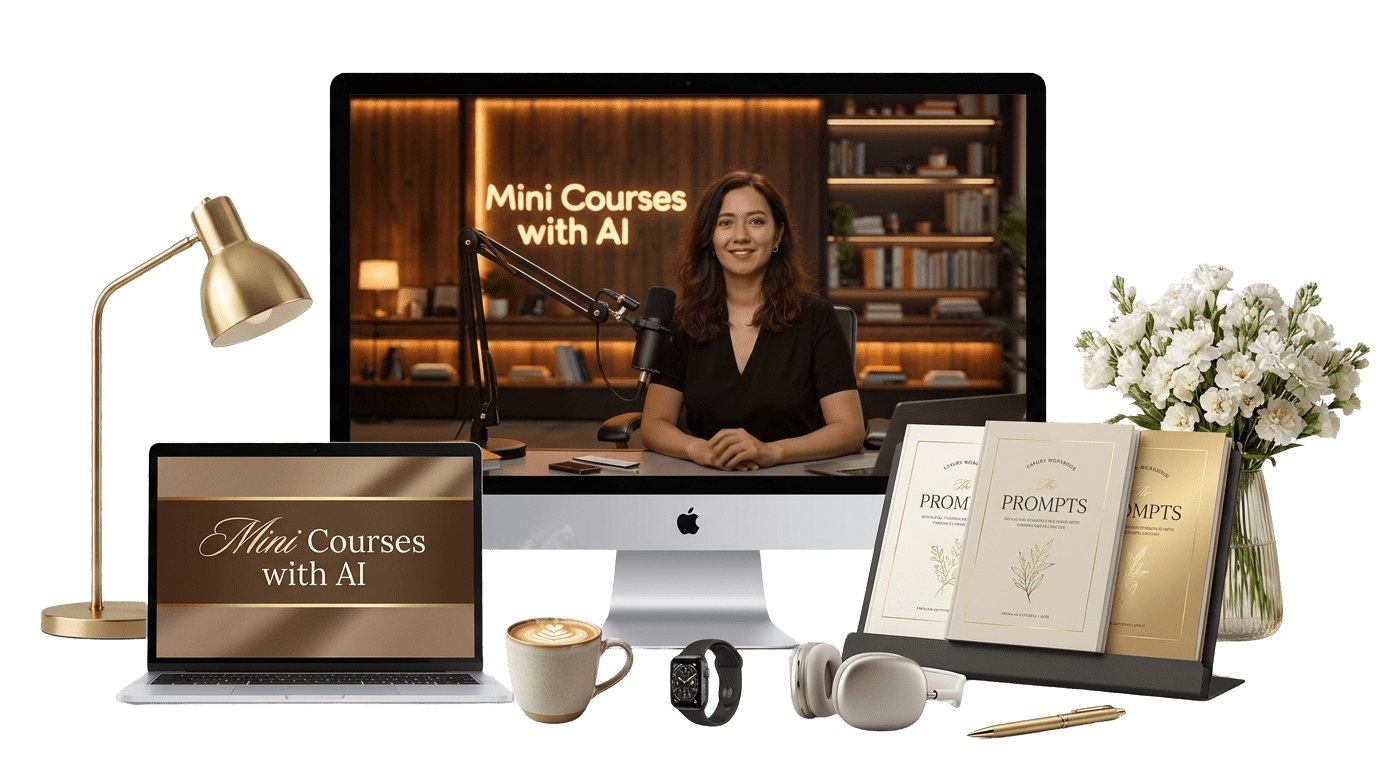
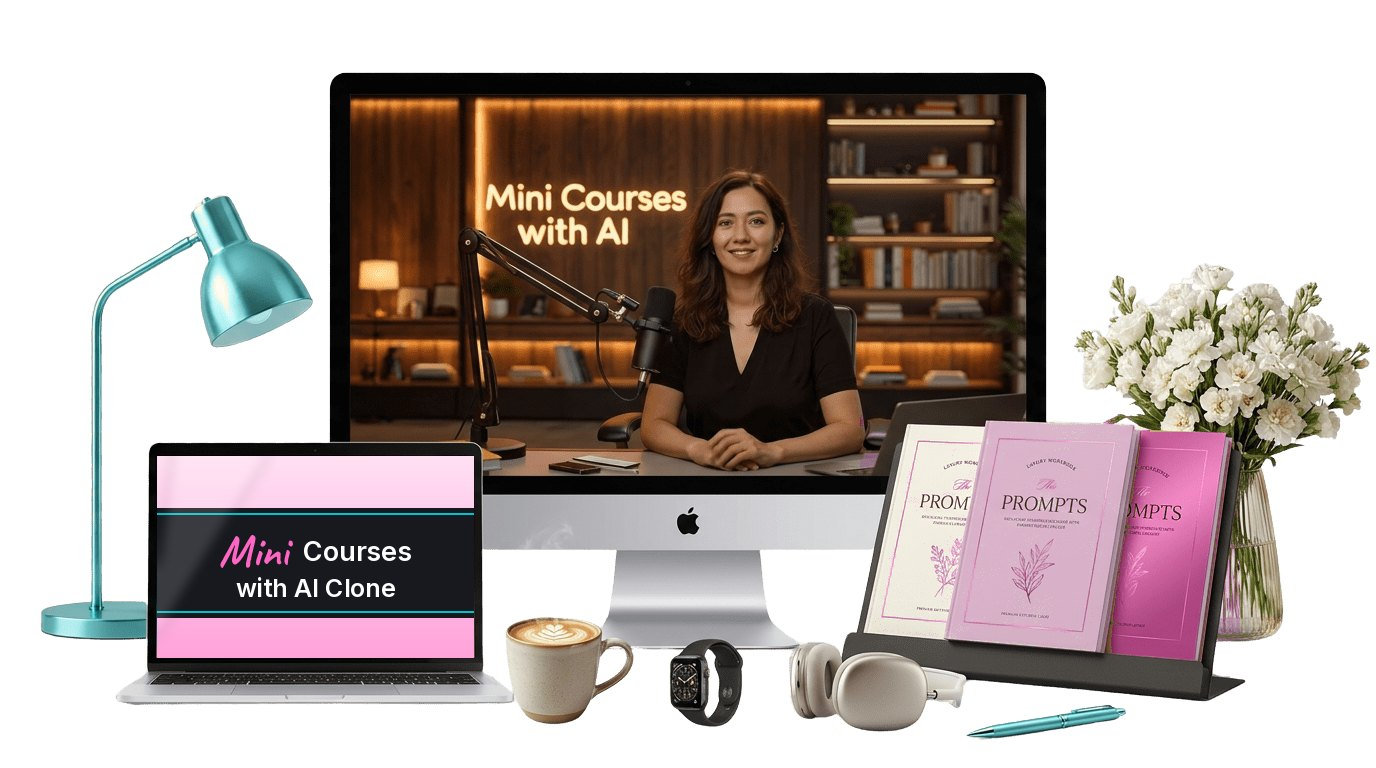
Funnel review round 2: quiet footers, one line under buttons, pink bonus marks, brand-colour mockup, For You section, new bio photo, pink services on welcome page
Claude-Session: https://claude.ai/code/session_01PxeRzWeaheMs1T8rnp6Qtq

Changed region(s): [[0.0312, 0.25, 0.3438, 0.875], [0.6562, 0.5312, 0.9062, 0.875], [0.6875, 0.9062, 0.8125, 0.9688]]

diff --git a/interactive-mini-app-offer.html b/interactive-mini-app-offer.html
@@ -35,7 +35,7 @@ strong{font-weight:600;color:var(--charcoal)}
 .btn-pink{background:linear-gradient(180deg,var(--pink) 0%,var(--pink-deep) 100%);color:var(--white);text-shadow:0 1px 2px rgba(150,20,95,.45);box-shadow:0 10px 24px -10px rgba(233,74,172,.8)}
 .btn-turq{background:linear-gradient(180deg,var(--turq-btn-light) 0%,var(--turq-btn) 55%,var(--turq-btn-dark) 100%);color:var(--white);text-shadow:0 1px 1px rgba(0,60,64,.35);box-shadow:0 10px 24px -10px rgba(0,118,124,.7)}
 .micro{font-size:14px;color:var(--muted);margin-top:12px}
-.nothanks{display:inline-block;margin-top:18px;font-size:15px;color:var(--muted);text-decoration:underline;text-underline-offset:3px}
+.nothanks{display:inline-block;margin-top:18px;font-size:15px;font-weight:700;color:var(--muted);text-decoration:underline;text-underline-offset:3px}
 .nothanks:hover{color:var(--charcoal)}
 .ph{background:#FFF3C4;padding:0 4px;border-radius:3px}
 
@@ -169,7 +169,6 @@ strong{font-weight:600;color:var(--charcoal)}
 .bonus-title{margin:56px 0 24px;font-size:26px}
 .bonuses{display:grid;grid-template-columns:repeat(3,1fr);gap:18px;text-align:left}
 .bonus{background:var(--white);border:1px solid var(--border);border-radius:18px;padding:22px;border-top:6px solid var(--pink)}
-.bonus:nth-child(2){border-top-color:var(--turq)}
 .bonus .tag{font-size:12px;font-weight:700;letter-spacing:.14em;color:var(--pink-deep);text-transform:uppercase}
 .bonus h3{font-size:18px;margin:6px 0 8px}
 .bonus p{font-size:15px;color:var(--muted)}
@@ -216,6 +215,7 @@ details .a{padding:0 22px 20px;color:var(--muted)}
 .getlist li{list-style:none;padding:10px 0 10px 36px;position:relative;border-bottom:1px solid var(--border);font-weight:500;color:var(--charcoal)}
 .getlist li:last-child{border-bottom:0}
 .getlist li:before{content:"✓";position:absolute;left:0;top:10px;width:24px;height:24px;border-radius:50%;background:var(--turq-btn);color:var(--white);font-size:13px;display:flex;align-items:center;justify-content:center;font-weight:700}
+.getlist li.b:before{content:"★";background:var(--pink-deep)}
 .signoff{font-family:'Caveat',cursive;font-size:32px;color:var(--pink-deep);margin-top:28px}
 
 /* RESPONSIVE */
@@ -350,7 +350,7 @@ details .a{padding:0 22px 20px;color:var(--muted)}
       <p class="ba-hint">Drag the slider: from PDFs nobody opens to a mini app people use</p>
     
       </div>
-      <p class="lead">Quizzes, calculators, planners, generators… The <strong>Interactive Mini Apps course</strong> shows you how to build your own mini web app (a link people open in their browser, not an iOS or Android app) in 4 short lessons, with no code and no tech skills, ready to grow your list or sell for <strong>$9–$47</strong>.</p>
+      <p class="lead">Quizzes, calculators, planners, generators… The <strong>Interactive Mini Apps course</strong> shows you how to build your own mini web app <em>(a link people open in their browser, not an iOS or Android app)</em> in 4 short lessons, with no code and no tech skills, ready to grow your list or sell for <strong>$9–$47</strong>.</p>
       <ul class="ticks">
         <li>No coding. Not even a little bit.</li>
         <li>No developer, no $500 custom build.</li>
@@ -386,7 +386,7 @@ details .a{padding:0 22px 20px;color:var(--muted)}
   <div class="wrap">
     <span class="eyebrow">Introducing…</span>
     <div class="name">Interactive <em>Mini Apps</em></div>
-    <p class="sub">Turn your idea into a working mini web app, with no code.<br><span style="font-size:16px">(A mini web app opens from a link in any browser. It's not an iOS or Android app.)</span></p>
+    <p class="sub">Turn your idea into a working mini web app, with no code.<br><em style="font-size:16px">(A mini web app opens from a link in any browser. It's not an iOS or Android app.)</em></p>
     <div class="intro-slider"><div class="ba" style="--pos:50%">
         <div class="ba-stage">
           <!-- BEFORE: static PDF worksheets -->
@@ -518,8 +518,7 @@ details .a{padding:0 22px 20px;color:var(--muted)}
         </div>
 
         <button class="btn btn-pink" type="submit">Complete My Order · <span data-total>$19</span></button>
-        <p class="consent">Stripe saves your card securely so you can add anything on the next page with one click. Nothing else is charged unless you choose it.</p>
-        <p class="secure">🔒 Secure checkout powered by Stripe</p>
+        <p class="secure">🔒 Secure Stripe checkout. Your card is saved only so you can add extras in one click.</p>
       </form>
       <a class="nothanks" href="#" data-next="canva-ai-prompt-library-offer.html">No thanks, I'll skip this offer</a>
     </div>
@@ -548,9 +547,9 @@ details .a{padding:0 22px 20px;color:var(--muted)}
       <li>Lesson 2: Which Builder Should You Use?</li>
       <li>Lesson 3: Step by Step Screen Recording Walkthrough</li>
       <li>Lesson 4: Share and Use Your Mini App</li>
-      <li>Bonus #1: Mini App Idea Finder App</li>
-      <li>Bonus #2: Idea Finder App Template Kit</li>
-      <li>Bonus #3: Promote Your Mini App Guide</li>
+      <li class="b">Bonus #1: Mini App Idea Finder App</li>
+      <li class="b">Bonus #2: Idea Finder App Template Kit</li>
+      <li class="b">Bonus #3: Promote Your Mini App Guide</li>
     </ul>
     <p class="price-line"><s>$49</s> <b>$19</b></p>
     <a class="btn btn-turq" href="#checkout">Build My Mini App →</a>
@@ -581,8 +580,8 @@ details .a{padding:0 22px 20px;color:var(--muted)}
 })();
 </script>
 
-  <footer style="background:#17191F;color:rgba(255,255,255,.7);text-align:center;padding:28px 20px;font:14px/1.6 Inter,system-ui,sans-serif">
-    <p style="margin:0">&copy; 2026 Creator Hustle AI &middot; <a href="privacy-policy.html" style="color:#fff">Privacy Policy</a> &middot; <a href="terms-of-use.html" style="color:#fff">Terms of Use</a> &middot; <a href="disclaimer.html" style="color:#fff">Disclaimer</a> &middot; <a href="contact.html" style="color:#fff">Contact</a> &middot; <a href="support.html" style="display:inline-block;margin-left:4px;padding:4px 12px;border-radius:999px;background:linear-gradient(180deg,#FF66C4,#E94AAC);color:#fff;font-weight:600;text-decoration:none">Customer Support</a></p>
+  <footer style="background:#fff;border-top:1px solid #EEF1F5;text-align:center;padding:18px 20px;font:12px/1.6 Inter,system-ui,sans-serif;color:#9AA4B2">
+    <p style="margin:0">&copy; 2026 Creator Hustle AI &middot; <a href="privacy-policy.html" style="color:#9AA4B2">Privacy</a> &middot; <a href="terms-of-use.html" style="color:#9AA4B2">Terms</a> &middot; <a href="disclaimer.html" style="color:#9AA4B2">Disclaimer</a> &middot; <a href="contact.html" style="color:#9AA4B2">Contact</a> &middot; <a href="support.html" style="color:#9AA4B2">Support</a></p>
   </footer>
 <script src="js/funnel.js"></script>
 </body>

diff --git a/mini-courses-with-ai-offer.html b/mini-courses-with-ai-offer.html
@@ -58,6 +58,22 @@
   <div class="wrap"><p>The good news? Your AI clone can do the presenting for you. Imagine having your mini course ready in a single day.</p></div>
 </section>
 
+<!-- FOR YOU IF -->
+<section class="foryou">
+  <div class="wrap foryou-grid">
+    <img src="assets/ai-clone-recording.jpg" alt="Liya recording a short video while her AI clone is generated" width="764" height="953" loading="lazy">
+    <div class="foryou-box">
+      <h2>This is for you if:</h2>
+      <ul>
+        <li><strong>You've been putting off creating a course</strong> because the process feels overwhelming, time-consuming or too technical.</li>
+        <li><strong>You'd love an AI clone presenter that delivers your lessons</strong> without needing to be on camera all the time.</li>
+        <li>You want <strong>a simple, step-by-step system</strong> that takes you from idea to published course.</li>
+        <li>You're a coach, course creator, digital product seller, consultant, freelancer or side hustler <strong>looking to create a new digital asset.</strong></li>
+      </ul>
+    </div>
+  </div>
+</section>
+
 <!-- INSIDE -->
 <section class="inside center">
   <div class="wrap">
@@ -89,7 +105,7 @@
       <p>After discovering what AI can do for course creation, I built a simple workflow that turns ideas into finished mini courses faster than ever.</p>
       <p>My goal is simple: <strong>help you stop overthinking your course and finally get it published.</strong></p>
     </div>
-    <img class="bio-square" src="assets/liya-bio-pink.jpg" alt="Liya Bergen smiling" width="560" height="560" loading="lazy">
+    <img class="bio-square" src="assets/liya-bio-turquoise.jpg" alt="Liya Bergen smiling in a turquoise shirt" width="720" height="720" loading="lazy">
   </div>
 </section>
 
@@ -102,8 +118,8 @@
       <ul class="getlist" style="margin:18px auto 20px">
         <li>5-step system to build, record and publish your mini course <em>$97</em></li>
         <li>Prompt pack for ideas, curriculum and marketing <em>$19</em></li>
-        <li>Bonus 1: Instagram Story Funnel <em>$29</em></li>
-        <li>Bonus 2: Podcast Studio Photoshoot Prompts + video demo <em>$49</em></li>
+        <li class="b">Bonus 1: Instagram Story Funnel <em>$29</em></li>
+        <li class="b">Bonus 2: Podcast Studio Photoshoot Prompts + video demo <em>$49</em></li>
         <li class="total">Total value <em>$194</em></li>
       </ul>
       <div class="was">$39</div>
@@ -111,7 +127,6 @@
       <p class="note">One-time payment. Lifetime access. Less than the cost of a dinner out.</p>
       <button class="btn btn-pink btn-block" type="button" id="downsell-yes" data-oneclick="downsell" data-next="welcome.html">Yes! Add Mini Courses with AI Clone →</button>
       <p class="card-on-file" data-if-card>💳 Charged to the card you just used. No need to enter it again.</p>
-      <p class="card-on-file" data-if-no-card hidden>🔒 You'll add your card details on Stripe's secure form.</p>
       <a class="nothanks" href="#" data-next="welcome.html">No thanks, take me to my access</a>
     </div>
   </div>
@@ -137,9 +152,9 @@
   </div>
 </section>
 
-<footer class="site-foot"><div class="wrap">
-  <p>&copy; 2026 Creator Hustle AI &middot; <a href="privacy-policy.html">Privacy Policy</a> &middot; <a href="terms-of-use.html">Terms of Use</a> &middot; <a href="disclaimer.html">Disclaimer</a> &middot; <a href="contact.html">Contact</a> &middot; <a class="support" href="support.html">Customer Support</a></p>
-</div></footer>
+<footer style="background:#fff;border-top:1px solid #EEF1F5;text-align:center;padding:18px 20px;font:12px/1.6 Inter,system-ui,sans-serif;color:#9AA4B2">
+    <p style="margin:0">&copy; 2026 Creator Hustle AI &middot; <a href="privacy-policy.html" style="color:#9AA4B2">Privacy</a> &middot; <a href="terms-of-use.html" style="color:#9AA4B2">Terms</a> &middot; <a href="disclaimer.html" style="color:#9AA4B2">Disclaimer</a> &middot; <a href="contact.html" style="color:#9AA4B2">Contact</a> &middot; <a href="support.html" style="color:#9AA4B2">Support</a></p>
+  </footer>
 <script src="js/funnel.js"></script>
 </body>
 </html>

diff --git a/css/funnel.css b/css/funnel.css
@@ -31,7 +31,7 @@ strong{font-weight:600;color:var(--charcoal)}
 .btn-block{display:block;width:100%;text-align:center}
 .btn[disabled]{opacity:.7;cursor:wait;transform:none}
 .micro{font-size:14px;color:var(--muted);margin-top:12px}
-.nothanks{display:inline-block;margin-top:18px;font-size:15px;color:var(--muted);text-decoration:underline;text-underline-offset:3px;background:none;border:0;font-family:inherit;cursor:pointer}
+.nothanks{display:inline-block;margin-top:18px;font-size:15px;font-weight:700;color:var(--muted);text-decoration:underline;text-underline-offset:3px;background:none;border:0;font-family:inherit;cursor:pointer}
 .nothanks:hover{color:var(--charcoal)}
 .ticks{list-style:none;margin:0 0 30px}
 .ticks li{padding-left:30px;position:relative;margin-bottom:8px}
@@ -94,7 +94,6 @@ strong{font-weight:600;color:var(--charcoal)}
 .step h3{margin-bottom:8px}
 .step p{font-size:16px;color:var(--muted)}
 .bonus{background:var(--white);border:1px solid var(--border);border-radius:18px;padding:22px;border-top:6px solid var(--pink)}
-.bonus:nth-child(2){border-top-color:var(--turq)}
 .bonus .tag{font-size:12px;font-weight:700;letter-spacing:.14em;color:var(--pink-deep);text-transform:uppercase}
 .bonus h3{font-size:18px;margin:6px 0 8px}
 .bonus p{font-size:15px;color:var(--muted)}
@@ -128,6 +127,7 @@ strong{font-weight:600;color:var(--charcoal)}
 .getlist li:last-child{border-bottom:0}
 .getlist li:before{content:"✓";position:absolute;left:0;top:10px;width:24px;height:24px;border-radius:50%;background:var(--turq-btn);color:var(--white);font-size:13px;display:flex;align-items:center;justify-content:center;font-weight:700}
 .getlist li em{font-style:normal;color:var(--muted);font-weight:600;white-space:nowrap;font-variant-numeric:tabular-nums}
+.getlist li.b:before{content:"★";background:var(--pink-deep)}
 .getlist .total{padding-left:0;font-weight:800}
 .getlist .total:before{display:none}
 
@@ -174,5 +174,17 @@ details .a{padding:0 22px 20px;color:var(--muted)}
 /* Real product mockup + square bio photo */
 .hero-mockup{display:block;max-width:640px;margin:30px auto 6px}
 .hero-mockup img{width:100%;height:auto}
-.origin img.bio-square{aspect-ratio:1/1;max-width:420px;margin-left:auto}
+.origin img.bio-square{aspect-ratio:1/1;height:auto;max-width:340px;margin-left:auto;object-position:50% 20%}
 @media(max-width:860px){.origin img.bio-square{max-width:320px;margin:0 auto}}
+
+/* "This is for you if" */
+.foryou{background:var(--white)}
+.foryou-grid{display:grid;grid-template-columns:.85fr 1.15fr;gap:48px;align-items:center}
+.foryou-grid img{width:100%;height:auto;max-width:380px;margin:0 auto;border-radius:24px;box-shadow:12px 12px 0 var(--turq-tint)}
+.foryou-box{background:var(--pink-tint);border-radius:24px;padding:40px 38px}
+.foryou-box h2{text-align:center;margin-bottom:18px}
+.foryou-box ul{list-style:none}
+.foryou-box li{position:relative;padding:16px 0 16px 34px;border-top:1px solid rgba(233,74,172,.28);color:var(--text)}
+.foryou-box li:last-child{border-bottom:1px solid rgba(233,74,172,.28)}
+.foryou-box li:before{content:"✓";position:absolute;left:0;top:16px;color:var(--turq-btn);font-weight:800}
+@media(max-width:860px){.foryou-grid{grid-template-columns:1fr}.foryou-grid img{max-width:320px}.foryou-box{padding:30px 22px}}

diff --git a/welcome.html b/welcome.html
@@ -33,12 +33,12 @@
   .more h2{margin-bottom:8px}
   .more .sub{color:var(--muted);max-width:560px;margin:0 auto 30px}
   .svc{display:grid;grid-template-columns:1fr 1fr;gap:22px;max-width:900px;margin:0 auto;text-align:left}
-  .svc a.box{display:flex;flex-direction:column;background:var(--surface);border:1px solid var(--border);border-radius:22px;padding:28px;text-decoration:none;color:var(--text);transition:transform .15s ease,box-shadow .15s ease}
+  .svc a.box{display:flex;flex-direction:column;background:var(--pink-tint);border:1px solid var(--pink);border-radius:22px;padding:28px;text-decoration:none;color:var(--text);transition:transform .15s ease,box-shadow .15s ease}
   .svc a.box:hover{transform:translateY(-3px);box-shadow:0 16px 30px -18px rgba(23,25,31,.35)}
-  .svc .kind{font-size:12px;font-weight:700;letter-spacing:.14em;text-transform:uppercase;color:var(--turq-btn)}
+  .svc .kind{font-size:12px;font-weight:700;letter-spacing:.14em;text-transform:uppercase;color:var(--pink-deep)}
   .svc h3{margin:6px 0 8px}
   .svc p{color:var(--muted);font-size:16px;flex:1}
-  .svc .go{margin-top:16px;font-weight:700;color:var(--pink-deep)}
+  .svc .go{margin-top:16px;font-weight:700;color:var(--charcoal)}
   .svc .pr{font-weight:800;color:var(--charcoal)}
   @media(max-width:760px){.access,.svc{grid-template-columns:1fr}}
 </style>
@@ -93,13 +93,13 @@
     <div class="svc">
       <a class="box" href="ai-clarity-call.html">
         <span class="kind">Done with you</span>
-        <h3>AI Clarity Call <span class="pr">· $149</span></h3>
+        <h3>AI Clarity Call</h3>
         <p>One private call to work out where AI fits in your business and which automations to set up first.</p>
         <span class="go">See the AI Clarity Call →</span>
       </a>
       <a class="box" href="ai-clone-setup.html">
         <span class="kind">Done with you</span>
-        <h3>AI Clone Setup <span class="pr">· $997</span></h3>
+        <h3>AI Clone Setup</h3>
         <p>We set up your AI clone together, build your YouTube funnel and create your first AI clone mini course or podcast.</p>
         <span class="go">See AI Clone Setup →</span>
       </a>
@@ -107,9 +107,9 @@
   </div>
 </section>
 
-<footer class="site-foot"><div class="wrap">
-  <p>&copy; 2026 Creator Hustle AI &middot; <a href="privacy-policy.html">Privacy Policy</a> &middot; <a href="terms-of-use.html">Terms of Use</a> &middot; <a href="disclaimer.html">Disclaimer</a> &middot; <a href="contact.html">Contact</a> &middot; <a class="support" href="support.html">Customer Support</a></p>
-</div></footer>
+<footer style="background:#fff;border-top:1px solid #EEF1F5;text-align:center;padding:18px 20px;font:12px/1.6 Inter,system-ui,sans-serif;color:#9AA4B2">
+    <p style="margin:0">&copy; 2026 Creator Hustle AI &middot; <a href="privacy-policy.html" style="color:#9AA4B2">Privacy</a> &middot; <a href="terms-of-use.html" style="color:#9AA4B2">Terms</a> &middot; <a href="disclaimer.html" style="color:#9AA4B2">Disclaimer</a> &middot; <a href="contact.html" style="color:#9AA4B2">Contact</a> &middot; <a href="support.html" style="color:#9AA4B2">Support</a></p>
+  </footer>
 <script src="js/funnel.js"></script>
 </body>
 </html>

diff --git a/canva-ai-prompt-library-offer.html b/canva-ai-prompt-library-offer.html
@@ -100,7 +100,6 @@
       <p class="note">One-time payment. Instant access to the prompts and the workshop in your course library.</p>
       <button class="btn btn-pink btn-block" type="button" id="upsell-yes" data-oneclick="upsell" data-next="welcome.html">Yes! Add It to My Order →</button>
       <p class="card-on-file" data-if-card>💳 Charged to the card you just used. No need to enter it again.</p>
-      <p class="card-on-file" data-if-no-card hidden>🔒 You'll add your card details on Stripe's secure form.</p>
       <a class="nothanks" href="#" data-next="mini-courses-with-ai-offer.html">No thanks, I'll write my own prompts</a>
     </div>
   </div>
@@ -126,9 +125,9 @@
   </div>
 </section>
 
-<footer class="site-foot"><div class="wrap">
-  <p>&copy; 2026 Creator Hustle AI &middot; <a href="privacy-policy.html">Privacy Policy</a> &middot; <a href="terms-of-use.html">Terms of Use</a> &middot; <a href="disclaimer.html">Disclaimer</a> &middot; <a href="contact.html">Contact</a> &middot; <a class="support" href="support.html">Customer Support</a></p>
-</div></footer>
+<footer style="background:#fff;border-top:1px solid #EEF1F5;text-align:center;padding:18px 20px;font:12px/1.6 Inter,system-ui,sans-serif;color:#9AA4B2">
+    <p style="margin:0">&copy; 2026 Creator Hustle AI &middot; <a href="privacy-policy.html" style="color:#9AA4B2">Privacy</a> &middot; <a href="terms-of-use.html" style="color:#9AA4B2">Terms</a> &middot; <a href="disclaimer.html" style="color:#9AA4B2">Disclaimer</a> &middot; <a href="contact.html" style="color:#9AA4B2">Contact</a> &middot; <a href="support.html" style="color:#9AA4B2">Support</a></p>
+  </footer>
 <script src="js/funnel.js"></script>
 </body>
 </html>

diff --git a/pdf-to-interactive-workbook.html b/pdf-to-interactive-workbook.html
@@ -187,8 +187,8 @@
   </section>
 
 
-  <footer style="background:#17191F;color:rgba(255,255,255,.7);text-align:center;padding:28px 20px;font:14px/1.6 Inter,system-ui,sans-serif">
-    <p style="margin:0">&copy; 2026 Creator Hustle AI &middot; <a href="privacy-policy.html" style="color:#fff">Privacy Policy</a> &middot; <a href="terms-of-use.html" style="color:#fff">Terms of Use</a> &middot; <a href="disclaimer.html" style="color:#fff">Disclaimer</a> &middot; <a href="contact.html" style="color:#fff">Contact</a> &middot; <a href="support.html" style="display:inline-block;margin-left:4px;padding:4px 12px;border-radius:999px;background:linear-gradient(180deg,#FF66C4,#E94AAC);color:#fff;font-weight:600;text-decoration:none">Customer Support</a></p>
+  <footer style="background:#fff;border-top:1px solid #EEF1F5;text-align:center;padding:18px 20px;font:12px/1.6 Inter,system-ui,sans-serif;color:#9AA4B2">
+    <p style="margin:0">&copy; 2026 Creator Hustle AI &middot; <a href="privacy-policy.html" style="color:#9AA4B2">Privacy</a> &middot; <a href="terms-of-use.html" style="color:#9AA4B2">Terms</a> &middot; <a href="disclaimer.html" style="color:#9AA4B2">Disclaimer</a> &middot; <a href="contact.html" style="color:#9AA4B2">Contact</a> &middot; <a href="support.html" style="color:#9AA4B2">Support</a></p>
   </footer>
   <script src="js/funnel.js"></script>
 </body>
